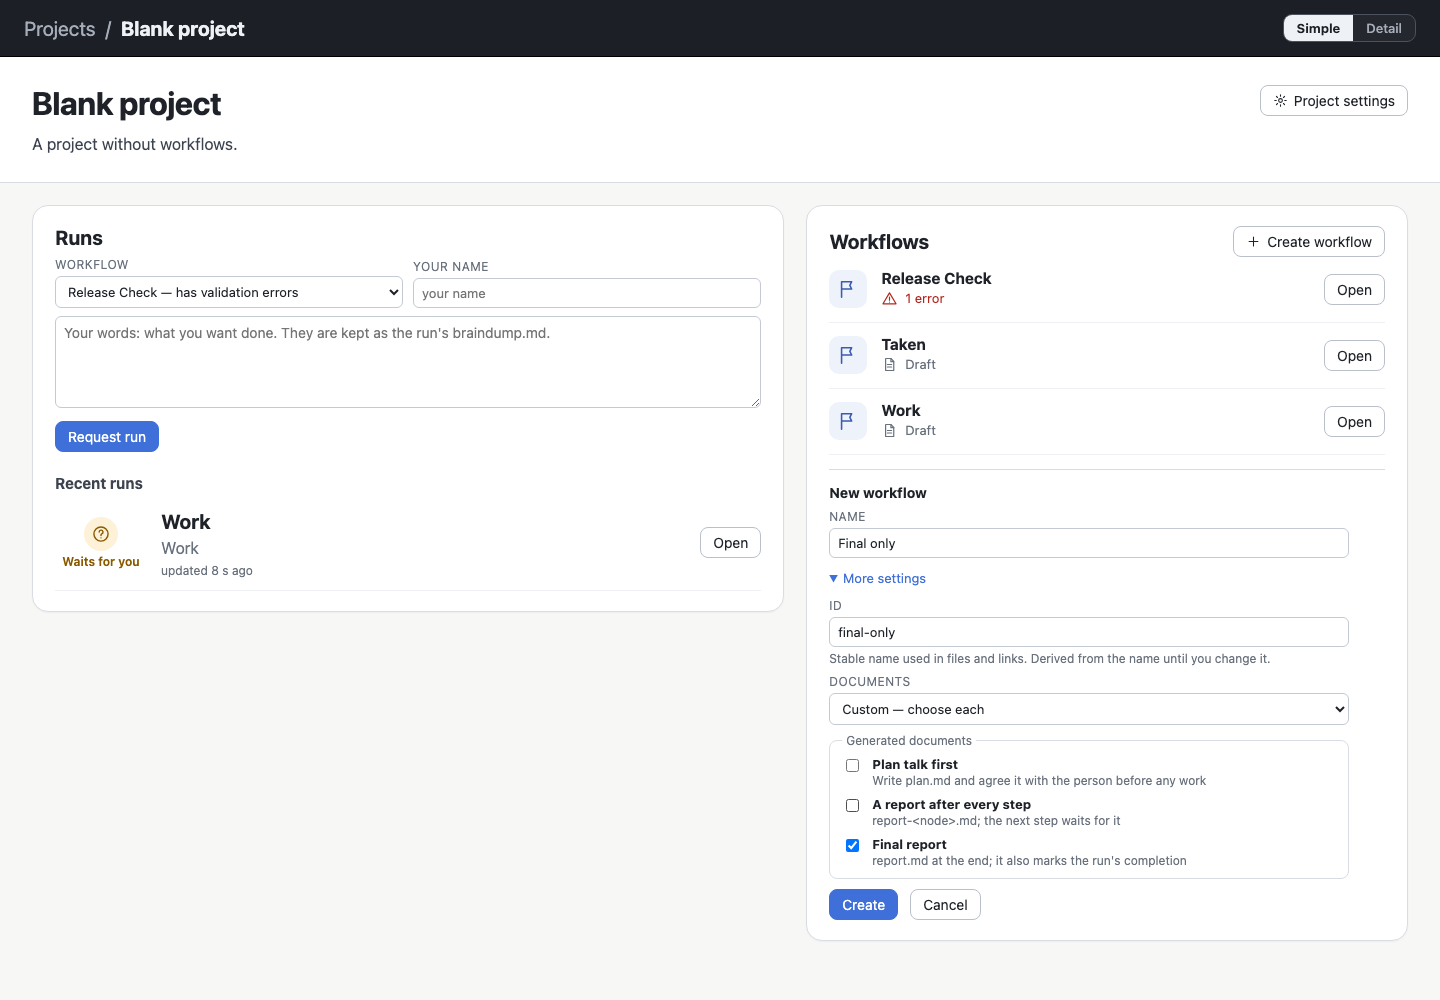
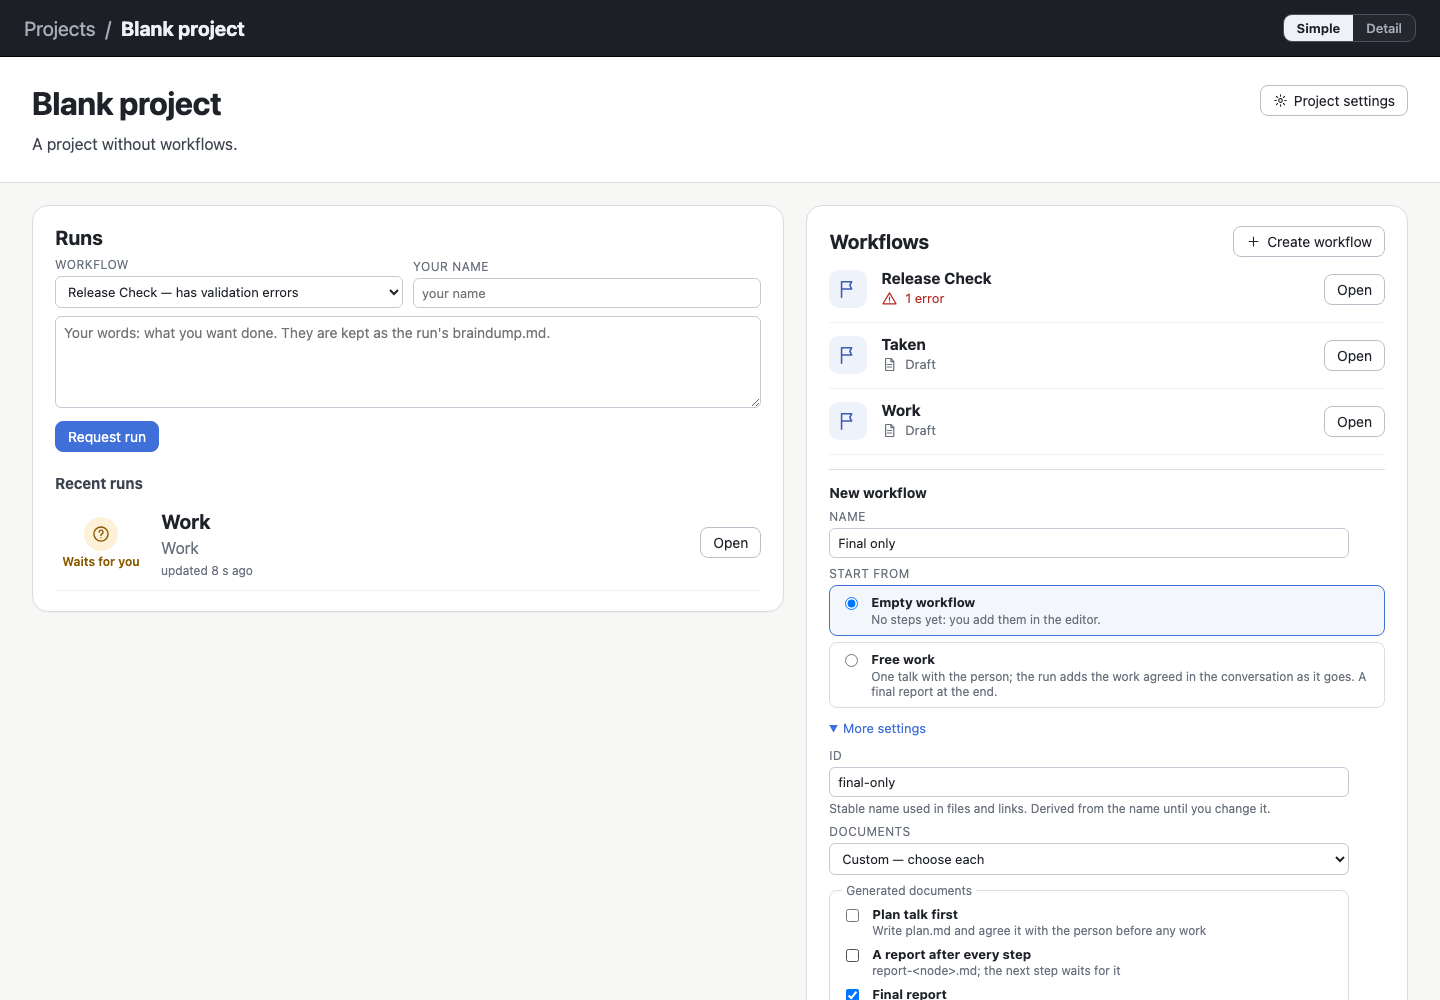
workflow_editor p8/ex2 report 5: freework placed in new projects, supplemented in existing ones, started from Simple (agdevworld 5ba5fef, not deployed)

Changed region(s): [[0.5625, 0.558, 0.9375, 1.0]]

diff --git a/episodes/workflow_editor/p8/ex2/report5.md b/episodes/workflow_editor/p8/ex2/report5.md
@@ -1,0 +1,99 @@
+# p8/ex2 step 5 — freework placed, supplemented and started
+
+Step 5 of [plan.md](plan.md). It is implemented and committed in agdevworld `5ba5fef`. It is not deployed (the
+installed release is still `6bdcd3b`), and nothing has been added to the production projects yet: that is step 7.
+
+## The definition
+
+```yaml
+id: freework
+name: Free work
+intent: |
+  Serve the person's request starting from their braindump and one conversation.
+  Agree in that conversation what to do, add that work to the run, do it,
+  and talk again whenever the person needs to be consulted, until the request is served.
+documentation: {policy: custom, plan: false, reports: false, final: true}
+repositories: …   # resolved per project, below
+execution: …      # resolved per project, below
+nodes:
+  talk:
+    type: talk
+    name: Talk
+    description: Understand the request, hold the consultation it needs, and make the next work concrete.
+```
+
+- The braindump is the run's ordinary input.
+- How the graph is updated is not in the talk's description. It is in the common guide (report 4) and in
+  `docs/adjustments.md`.
+- Nothing branches on the id `freework`. The template **Free work** makes the same definition under another
+  id, and the step 4 tests ran the same structure as `adhoc`, `freework` and `conversation-first`.
+
+## One mechanism for new and existing projects (`server/basics.ts`)
+
+- **Settings are resolved when the workflow is placed:**
+  - **Bindings** are the union of the project's valid workflows' bindings. Each path gets the most permissive
+    access one of them already grants, so nothing becomes editable that no workflow made editable.
+  - **Execution:** the agent and profile all valid workflows agree on, and the guides all of them list.
+  - **A project without valid workflows** gets its root editable and every submodule and local area readonly.
+  - **No intake.**
+  - The resolution is printed, so the person sees what was learned from where.
+- **New projects:**
+  - `createProject` places freework before the initial commit (directory mode), or in the devdocs source
+    (submodule mode, local and Gitea).
+  - A devdocs source the person supplies is left alone, and the step says to use `wfe workflow basics`.
+- **Existing projects:** `wfe workflow basics [--dry-run] [--commit [--push]] [--workspace <id> | --all]`
+  reports one of:
+  - `added`;
+  - `would-add` (dry run, with the resolution);
+  - `present`: a workflow with the id exists, edited or not, and is left alone;
+  - `conflict`: a file with the name holds another workflow or cannot be read. It is reported with the reason
+    and exits 1;
+  - `unplaceable`: no `devdocs/workflows`, or the workspace is unavailable or protected;
+  - `covered`: another workspace of the same project, or of a shared devdocs repository, already placed it.
+- **Commit and push.**
+  - `--commit` commits only the added file. In submodule mode it also commits the root's gitlink. The
+    person's other uncommitted files stay uncommitted.
+  - `--push` pushes when the branch has an upstream, and otherwise says so.
+- **Reads never write.** Reading a project (summaries, repositories, the project view) never creates the file.
+
+### What `--all --dry-run` resolves for the production projects (read only, with the new code)
+
+| Project | Learned from | Bindings | Execution |
+| --- | --- | --- | --- |
+| `rts-vs-bot` | improve-game (build-game is v1: validation errors) | `game .` editable; `rts study/study-rts` readonly | the host's agent; guide `agent/review.md` |
+| `ppt` | create, study | `project .` readonly; `study` editable; `wedo` editable | `ppt-agent`, profile `sonnet`, guide `agent/guide.md` |
+| `agsfx` | create, improve-tools, research | `project .` readonly; `lab`, `study`, `wedo` editable | `sfx-agent`, guide `agent/guide.md` |
+
+For the Developer: in `rts-vs-bot` the only guide every valid workflow lists is `agent/review.md`, which is
+`improve-game`'s guidance for review presentations. It would be given to freework runs too. The rule is applied
+as planned and not special-cased. Editing `freework.yaml` after placement is the way to change it.
+
+## Starting it
+
+- freework appears in the project's workflow list and in the request form like any workflow. A run of it is
+  requested with the person's words.
+- Starting a run copies no definition into `devdocs/workflows`. The grown definition lives in the run's
+  revisions.
+- **Fixed on the way.** When the person answers in the run view, the service queues the executor's resumption
+  (since p6). The view still said "recording does not notify it", and that "does not wake it". The confirmation
+  now comes from the service's reply: "autolab continues the run (its resumption is queued on this host)". The
+  lead and the form's note say so when this host executes the run (it has jobs for it), and keep the old
+  wording otherwise.
+
+![A freework run after its talk: the added work running](images/freework-grown-simple.png)
+
+## Verification
+
+| Check | Result |
+| --- | --- |
+| `npm run check` | tsc clean; **250/250** tests |
+| `test/basics.test.ts` (new, 7) | new project (directory): freework valid, compiled to talk + final report, committed with the project, a run of it created; new project (submodule): in the devdocs repository's history; existing project: reads write nothing, dry run writes nothing and lists what it learned, added with the union/most-permissive bindings and the agreed execution, a second run is `present` and byte for byte unchanged, a person's edit kept; disagreeing agents → host default, no common guide → none; conflicts (another id, unreadable), the id in another file (`present`), no workflow directory (`unplaceable`); two workspaces of one project → `added` + `covered`, only the file committed (the person's file untouched), pushed to the upstream, again → `present` + `covered`, no upstream → committed, not pushed, said why; the Free work template under another id |
+| Fixture tests updated | `gitea.test.ts` (the creation step list), `setup.test.ts` (a resumed creation keeps the freework that came with its devdocs source), `notify.test.ts` (the notify thread provisions a channel per workflow, so a new project also gets `wf-<project>.freework`) |
+| `checks/freework.ts` freework section | 16/16: the supplement adds it to a project without it; the list and the request form offer it; a request from Simple; no definition copied; a fresh run is "0 of 1 steps done" with the talk and the final report; the talk's question is the person's task in Simple ("Your answer lets it continue"); the answer from Simple, confirmed as continuing the run; the agreed work added at the boundary; the progress "1 step done · the plan of this run has grown once"; the activity line on the added work; the graph shows it |
+| `checks/simplerUi.ts`, `displayMode.ts`, `runInteraction.ts`, `docsteps.ts`, `conversation.ts` | all passed (their fixture projects now start with freework too) |
+
+## Consequence for step 7
+
+Placing freework in a project with Zulip delivery makes the notify thread provision `wf-<project>.freework`.
+That would happen for `rts-vs-bot`, `ppt` and `agsfx`. These are the editor's existing per-workflow channels;
+intake stays off for them.
